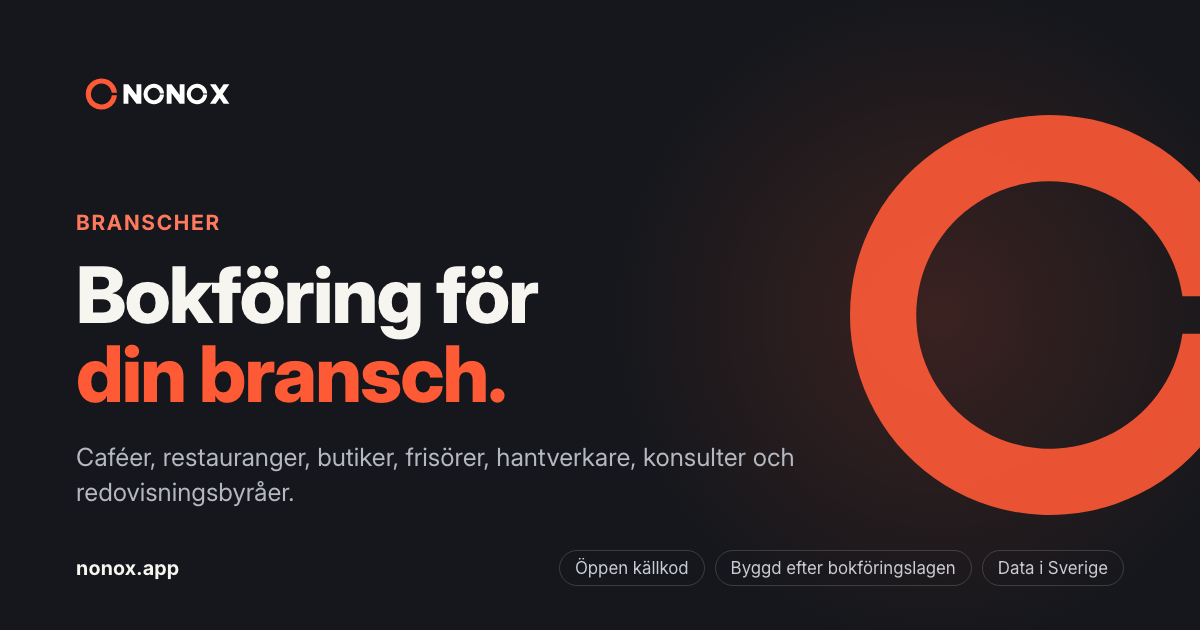
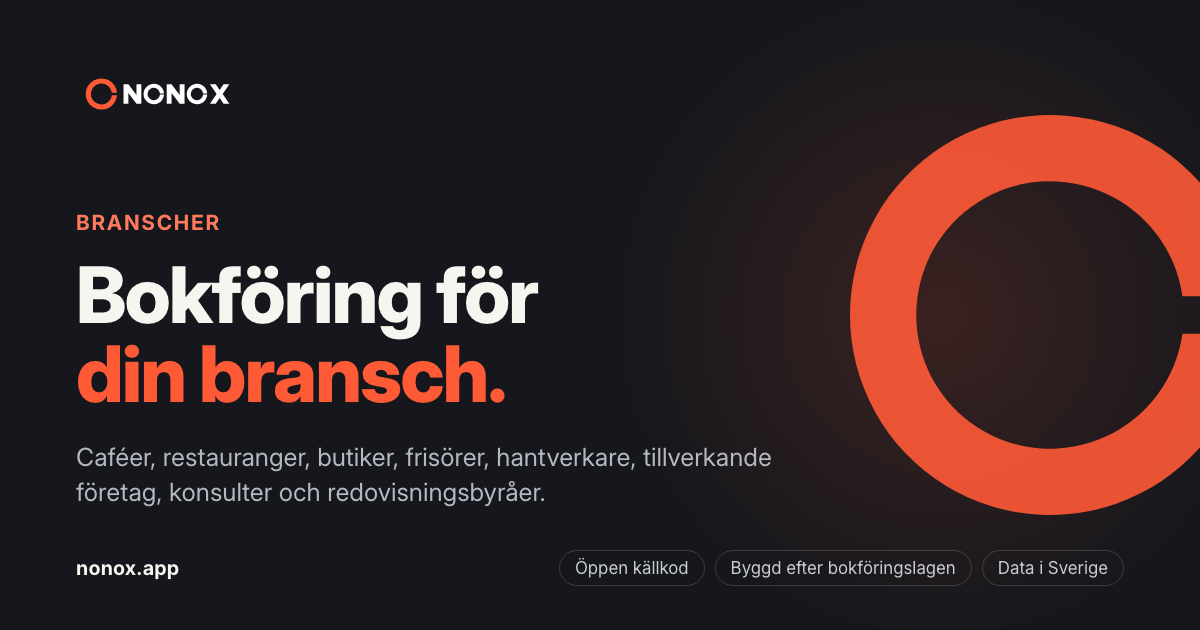
feat(web): industry page for manufacturing companies, with its own demo and guide track

Changed region(s): [[0.0617, 0.754, 0.4625, 0.8143], [0.5242, 0.6937, 0.6783, 0.754]]

diff --git a/database/seeders/Demo/DemoIndustries.php b/database/seeders/Demo/DemoIndustries.php
@@ -241,6 +241,41 @@ final class DemoIndustries
                     ['first_name' => 'Theo', 'last_name' => 'Björk', 'birth' => '20040610', 'position_title' => 'Lärling', 'salary_form' => 'HOURLY', 'salary' => '165,00', 'employment_type' => 'PROVANSTALLNING', 'employment_rate' => 100],
                 ],
             ],
+            'bokforing-for-tillverkande-foretag' => [
+                'org_serial' => '09',
+                'salary_account' => 7010,
+                'name' => 'Möbelsnickeriet Ekebo Demo AB',
+                'city' => 'Vimmerby',
+                'postal_code' => '598 30',
+                'vat_period' => 'QUARTERLY',
+                'firm' => 'for-redovisningsbyraer',
+                'opening_bank' => 240_000,
+                'sales' => ['kind' => 'invoices', 'invoices_per_month' => 5, 'hours' => [16, 60]],
+                'articles' => [
+                    ['number' => 'ARB', 'name' => 'Arbete snickare', 'unit' => 'tim', 'price' => '595', 'vat_rate' => 2500],
+                    ['number' => 'MAT', 'name' => 'Material enligt specifikation', 'unit' => 'st', 'price' => '2400', 'vat_rate' => 2500],
+                    ['number' => 'LEV', 'name' => 'Leverans och montering', 'unit' => 'st', 'price' => '850', 'vat_rate' => 2500],
+                ],
+                'customers' => [
+                    ['name' => 'Kontorsinredarna Exempel AB', 'org_number' => self::orgNumber('28'), 'vat_number' => self::vatNumber('28'), 'city' => 'Vimmerby', 'payment_terms_days' => 30],
+                    ['name' => 'Bostadsrättsföreningen Exemplet', 'org_number' => self::orgNumber('29', '769'), 'city' => 'Vimmerby', 'payment_terms_days' => 30],
+                    ['name' => 'Lisa Lindqvist', 'personal_number' => self::personalNumber('19720508', '175'), 'city' => 'Hultsfred', 'payment_terms_days' => 20],
+                ],
+                'suppliers' => [
+                    ['name' => 'Träbolaget Demo AB', 'org_number' => self::orgNumber('71'), 'bankgiro' => '5050-1055', 'payment_terms_days' => 30, 'default_account' => 4010],
+                    ['name' => 'Beslag och Lack Demo AB', 'org_number' => self::orgNumber('72'), 'bankgiro' => '5050-1055', 'payment_terms_days' => 30, 'default_account' => 4010],
+                    ['name' => 'Verkstadsfastigheter Demo AB', 'org_number' => self::orgNumber('73'), 'bankgiro' => '5050-1055', 'payment_terms_days' => 0, 'default_account' => 5010],
+                ],
+                'costs' => [
+                    ['supplier' => 'Träbolaget Demo AB', 'account' => 4010, 'every' => 'week', 'amount' => [6_000, 20_000], 'vat_rate' => 2500, 'description' => 'Trävaror'],
+                    ['supplier' => 'Beslag och Lack Demo AB', 'account' => 4010, 'every' => 'month', 'amount' => [2_000, 6_000], 'vat_rate' => 2500, 'description' => 'Beslag och ytbehandling'],
+                    ['supplier' => 'Verkstadsfastigheter Demo AB', 'account' => 5010, 'every' => 'month', 'amount' => [9_000, 9_000], 'vat_rate' => 2500, 'description' => 'Hyra verkstadslokal'],
+                ],
+                'employees' => [
+                    ['first_name' => 'Gustav', 'last_name' => 'Ekebo', 'birth' => '19790312', 'position_title' => 'Snickare, verkstadschef', 'salary_form' => 'MONTHLY', 'salary' => '39 000', 'employment_type' => 'TILLSVIDARE', 'employment_rate' => 100],
+                    ['first_name' => 'Maja', 'last_name' => 'Strand', 'birth' => '19950620', 'position_title' => 'Möbelsnickare', 'salary_form' => 'HOURLY', 'salary' => '190,00', 'employment_type' => 'TILLSVIDARE', 'employment_rate' => 100],
+                ],
+            ],
             'bokforing-for-konsulter' => [
                 'org_serial' => '06',
                 'salary_account' => 7220,

diff --git a/app/Domain/Waitlist/OnboardingPlan.php b/app/Domain/Waitlist/OnboardingPlan.php
@@ -36,6 +36,7 @@ final readonly class OnboardingPlan
         'inventory' => 'lager',
         'pos' => 'lager/kassa-onslip',
         'kitchen' => 'kok',
+        'manufacturing' => 'tillverkning',
         'work_orders' => 'fakturering/arbetsorder',
         'portal' => 'fakturering/kundportal',
         'crm' => 'crm',
@@ -150,6 +151,13 @@ final readonly class OnboardingPlan
                 $inbox,
                 ['ai', __('Fotografera kvitton så fyller NONOX AI i förslaget åt dig.')],
             ],
+            Industry::Manufacturing => [
+                ['manufacturing', __('Stycklistor, kalkyl, tillverkningsorder, verkstadsterminal och planering för verkstaden.')],
+                ['inventory', __('Lager för material och färdiga produkter, och inköpsorder till leverantörerna.')],
+                $payroll,
+                $inbox,
+                ['ai', __('Fotografera kvitton så fyller NONOX AI i förslaget åt dig.')],
+            ],
             Industry::Retail => [
                 $pos,
                 ['inventory', __('Artiklar, saldo och inventering.')],
@@ -254,6 +262,7 @@ final readonly class OnboardingPlan
             Industry::Cafe => __('ett kafé'),
             Industry::Restaurant => __('en restaurang'),
             Industry::Crafts => __('ett hantverks- eller byggföretag'),
+            Industry::Manufacturing => __('ett tillverkande företag'),
             Industry::Consultant => __('en konsult'),
             Industry::Retail => __('en butik eller e-handel'),
             Industry::HairBeauty => __('en frisör- eller skönhetssalong'),

diff --git a/app/Domain/Company/Industry.php b/app/Domain/Company/Industry.php
@@ -17,6 +17,7 @@ enum Industry: string
     case Cafe = 'cafe';
     case Restaurant = 'restaurant';
     case Crafts = 'crafts';
+    case Manufacturing = 'manufacturing';
     case Consultant = 'consultant';
     case Retail = 'retail';
     case HairBeauty = 'hair_beauty';
@@ -30,6 +31,7 @@ enum Industry: string
             self::Cafe => __('Kafé'),
             self::Restaurant => __('Restaurang'),
             self::Crafts => __('Hantverk och bygg'),
+            self::Manufacturing => __('Tillverkande företag'),
             self::Consultant => __('Konsult'),
             self::Retail => __('Butik och e-handel'),
             self::HairBeauty => __('Frisör och skönhet'),
@@ -46,6 +48,7 @@ enum Industry: string
             self::Cafe => 'bokforing-for-cafeer',
             self::Restaurant => 'bokforing-for-restauranger',
             self::Crafts => 'bokforing-for-hantverkare',
+            self::Manufacturing => 'bokforing-for-tillverkande-foretag',
             self::Consultant => 'bokforing-for-konsulter',
             self::Retail => 'bokforing-for-butiker',
             self::HairBeauty => 'bokforing-for-frisorer',
@@ -76,6 +79,7 @@ enum Industry: string
             self::Retail => 'butik-och-handel',
             self::HairBeauty => 'frisor-och-skonhet',
             self::Crafts => 'hantverkare',
+            self::Manufacturing => 'tillverkande-foretag',
             self::Consultant => 'konsult',
             self::AccountingFirm => 'redovisningsbyra',
             self::FinanceConsultant => 'ekonomikonsult',

diff --git a/app/Support/Landing/ShareCards.php b/app/Support/Landing/ShareCards.php
@@ -37,7 +37,7 @@ final class ShareCards
                 'eyebrow' => 'Branscher',
                 'title' => 'Bokföring för',
                 'accent' => 'din bransch.',
-                'text' => 'Caféer, restauranger, butiker, frisörer, hantverkare, konsulter och redovisningsbyråer.',
+                'text' => 'Caféer, restauranger, butiker, frisörer, hantverkare, tillverkande företag, konsulter och redovisningsbyråer.',
             ],
             'sakerhet' => [
                 'eyebrow' => 'Säkerhet och regelverk',

diff --git a/tests/Feature/IndustryPagesTest.php b/tests/Feature/IndustryPagesTest.php
@@ -49,6 +49,7 @@ it('has the industry pages the owner asked for, with documented Swedish slugs', 
         'bokforing-for-cafeer',
         'bokforing-for-restauranger',
         'bokforing-for-hantverkare',
+        'bokforing-for-tillverkande-foretag',
         'bokforing-for-konsulter',
         'bokforing-for-butiker',
         'bokforing-for-frisorer',

diff --git a/database/seeders/Demo/Extras/PlanningCalendarExtras.php b/database/seeders/Demo/Extras/PlanningCalendarExtras.php
@@ -61,7 +61,7 @@ final class PlanningCalendarExtras extends DemoExtra
 
     public function industries(): array
     {
-        return ['bokforing-for-hantverkare'];
+        return ['bokforing-for-hantverkare', 'bokforing-for-tillverkande-foretag'];
     }
 
     public function afterAll(DemoContext $c): void

diff --git a/database/seeders/Demo/Extras/ManufacturingExtras.php b/database/seeders/Demo/Extras/ManufacturingExtras.php
@@ -51,7 +51,7 @@ final class ManufacturingExtras extends DemoExtra
 
     public function industries(): array
     {
-        return ['bokforing-for-hantverkare'];
+        return ['bokforing-for-hantverkare', 'bokforing-for-tillverkande-foretag'];
     }
 
     public function afterAll(DemoContext $c): void

diff --git a/database/seeders/Demo/Extras/WorkshopExtras.php b/database/seeders/Demo/Extras/WorkshopExtras.php
@@ -57,7 +57,7 @@ final class WorkshopExtras extends DemoExtra
 
     public function industries(): array
     {
-        return ['bokforing-for-hantverkare'];
+        return ['bokforing-for-hantverkare', 'bokforing-for-tillverkande-foretag'];
     }
 
     public function afterAll(DemoContext $c): void

diff --git a/database/seeders/Demo/Extras/UnitsExtras.php b/database/seeders/Demo/Extras/UnitsExtras.php
@@ -20,7 +20,7 @@ final class UnitsExtras extends DemoExtra
 {
     public function industries(): array
     {
-        return ['bokforing-for-hantverkare'];
+        return ['bokforing-for-hantverkare', 'bokforing-for-tillverkande-foretag'];
     }
 
     public function afterAll(DemoContext $c): void

diff --git a/docs/foretagsguiden/sv/branscher/tillverkande-foretag.md b/docs/foretagsguiden/sv/branscher/tillverkande-foretag.md
@@ -1,0 +1,48 @@
+---
+beskrivning: "Det som är särskilt för små tillverkande företag, som snickerier, möbeltillverkare och verkstäder: lager och produkter i arbete vid bokslutet, kalkyl, inköp och kollektivavtal."
+ordning: 55
+branscher: [manufacturing]
+rutter: [inventory.counts, inventory.reports]
+sokord: [tillverkning, tillverkande företag, snickeri, möbeltillverkare, verkstad, stycklista, kalkyl, produkter i arbete, färdiga varor, råvarulager, kollektivavtal]
+kallor:
+  - titel: Bokföringsnämnden – Vägledning Årsredovisning i mindre företag (K2), konsoliderad 2025, kapitel 12
+    url: https://www.bfn.se/wp-content/uploads/vl16-10-k2ar-kons2025.pdf
+  - titel: Riksdagen – Årsredovisningslag (1995:1554)
+    url: https://www.riksdagen.se/sv/dokument-och-lagar/dokument/svensk-forfattningssamling/arsredovisningslag-19951554_sfs-1995-1554/
+granskad: 2026-11-15
+mansklig_granskning:
+legal_verify:
+  - Artikeln beskriver K2 för årsredovisning (BFNAR 2016:10) och nämner bara att pågående arbeten och färdiga varor kan höra till varulagret. Kontrollera vad som gäller för ditt företag och din redovisningsform med en redovisningskonsult.
+  - Kollektivavtalets betydelse för lön beskrivs bara övergripande. Avtalets innehåll avgörs av avtalstexten och parterna.
+---
+
+# Tillverkande företag
+
+Tillverkar du på beställning, till exempel möbler, snickerier eller detaljer i en liten verkstad, har du tre ekonomiska frågor som en butik eller en konsult inte har: vad ett jobb kostar att göra, vad som ligger på lager när året tar slut, och hur lönen räknas när personalen omfattas av kollektivavtal. Den här sidan samlar det som gäller dig.
+
+## Det här säger reglerna
+
+- **Lager och produkter i arbete.** Material, halvfabrikat och färdiga produkter som ännu inte är sålda kan vara tillgångar i bokslutet. Hur de ska värderas och redovisas beror på din redovisningsform. K2 för mindre aktiebolag har egna regler, se [Lager och inventering](/foretagsguiden/branscher/lager-och-inventering).
+- **Verifikationer och underlag.** Allt som påverkar bokföringen ska ha en verifikation och sparas enligt bokföringslagen, även inköp av material och leverantörsfakturor som hör till ett visst jobb.
+- **Kollektivavtal.** Är ditt företag bundet av ett kollektivavtal, som Träindustriavtalet för trä- och möbelindustrin, styr det minimilöner, tillägg för övertid och OB samt semesterregler. Vad som gäller dig avgörs av avtalet och av hur ditt företag är bundet av det.
+- **Arbete åt konsumenter.** Tillverkar eller monterar du hos privatpersoner kan konsumenttjänstlagen gälla, se [Offert, ÄTA och projekt](/foretagsguiden/branscher/ata-och-projekt).
+
+## Så här gör du
+
+1. Räkna en kalkyl innan du lämnar offerten: material, arbetstid och en marginal du valt själv. Spara kalkylen så att du kan jämföra med utfallet efteråt.
+2. Håll ordning på vad som köps in till vilket jobb, och betala leverantörerna i tid.
+3. Bestäm hur du inventerar lagret och räknar värdet vid bokslutet, och tala med din redovisningskonsult om pågående arbeten och färdiga produkter.
+4. Ta reda på om ditt företag omfattas av ett kollektivavtal, och i så fall vilket, innan du betalar ut första lönen. Läs om att [registrera dig som arbetsgivare](/foretagsguiden/starta/arbetsgivare).
+5. Fundera på [ansvarsförsäkring och avtal](/foretagsguiden/branscher/ansvarsforsakring-och-avtal) innan du skriver under med en beställare.
+
+I NONOX finns kalkyl, tillverkningsorder, lager och planering i modulen Tillverkning, se [Tillverkning](/manual/tillverkning).
+
+## Vanliga misstag
+
+- **Att lämna offert utan kalkyl** och sedan upptäcka att arbetstimmarna blev fler än priset räknade med.
+- **Att glömma lagret vid bokslutet.** Material och färdiga produkter som ännu inte är sålda påverkar årets resultat.
+- **Att anta att kollektivavtalet inte gäller.** Fråga arbetsgivarorganisationen eller facket om du är osäker på om ni är bundna.
+
+## Bra att veta
+
+Reglerna om bokslut, värdering och kollektivavtal ändras ibland och skiljer sig mellan företag. Kontrollera med din redovisningskonsult, Bokföringsnämnden eller avtalsparterna innan du bestämmer dig.

diff --git a/README.md b/README.md
@@ -465,7 +465,7 @@ Taxonomitestet för iXBRL-årsredovisningen hoppas över om `BOLAGSVERKET_TAXONO
 
 ### Demoföretag per bransch
 
-Ett påhittat demoföretag för varje branschsida (restaurang, café, butik, frisör, hantverkare, konsult, redovisningsbyrå och ekonomikonsult), med årets bokföring fram till i går: dagsrapporter eller kundfakturor (med ROT och omvänd betalningsskyldighet hos hantverkaren), leverantörsfakturor med attest och betalning, löner, momsdeklarationer, anställda och personalliggare. Byråerna är kopplade till sina kundföretag.
+Ett påhittat demoföretag för varje branschsida (restaurang, café, butik, frisör, hantverkare, konsult, redovisningsbyrå och ekonomikonsult); sidan för tillverkande företag har ett eget möbelsnickeri med stycklistor, tillverkningsorder, planering och storskärm, med årets bokföring fram till i går: dagsrapporter eller kundfakturor (med ROT och omvänd betalningsskyldighet hos hantverkaren), leverantörsfakturor med attest och betalning, löner, momsdeklarationer, anställda och personalliggare. Byråerna är kopplade till sina kundföretag.
 
 Lägg dem i en egen databas, så att de inte blandas med riktiga företag:
 

diff --git a/docs/foretagsguiden/sv/branscher/oversikt.md b/docs/foretagsguiden/sv/branscher/oversikt.md
@@ -1,7 +1,7 @@
 ---
 beskrivning: Vad som är särskilt för åtta vanliga branscher, med en checklista per bransch och länkar till det som gäller just dig.
 ordning: 0
-sokord: [bransch, branscher, kafé, restaurang, butik, frisör, hantverkare, bygg, konsult, redovisningsbyrå, ekonomikonsult]
+sokord: [bransch, branscher, kafé, restaurang, butik, frisör, hantverkare, bygg, tillverkning, snickeri, konsult, redovisningsbyrå, ekonomikonsult]
 kallor:
   - titel: Skatteverket – För dig som vill starta företag
     url: https://www.skatteverket.se/foretag/drivaforetag/startaochregistrera/fordigsomvillstartaforetag.4.6e8a1495181dad540842251.html
@@ -32,9 +32,10 @@ Välj den bransch som liknar din verksamhet mest. Varje översikt har en checkli
 - [Butik och handel](/foretagsguiden/branscher/butik-och-handel)
 - [Frisör och skönhet](/foretagsguiden/branscher/frisor-och-skonhet)
 
-**Hantverk och tjänster**
+**Hantverk, tillverkning och tjänster**
 
 - [Hantverkare inom bygg, el och VVS](/foretagsguiden/branscher/hantverkare)
+- [Tillverkande företag](/foretagsguiden/branscher/tillverkande-foretag)
 - [Konsult](/foretagsguiden/branscher/konsult)
 
 **Ekonomi åt andra**
